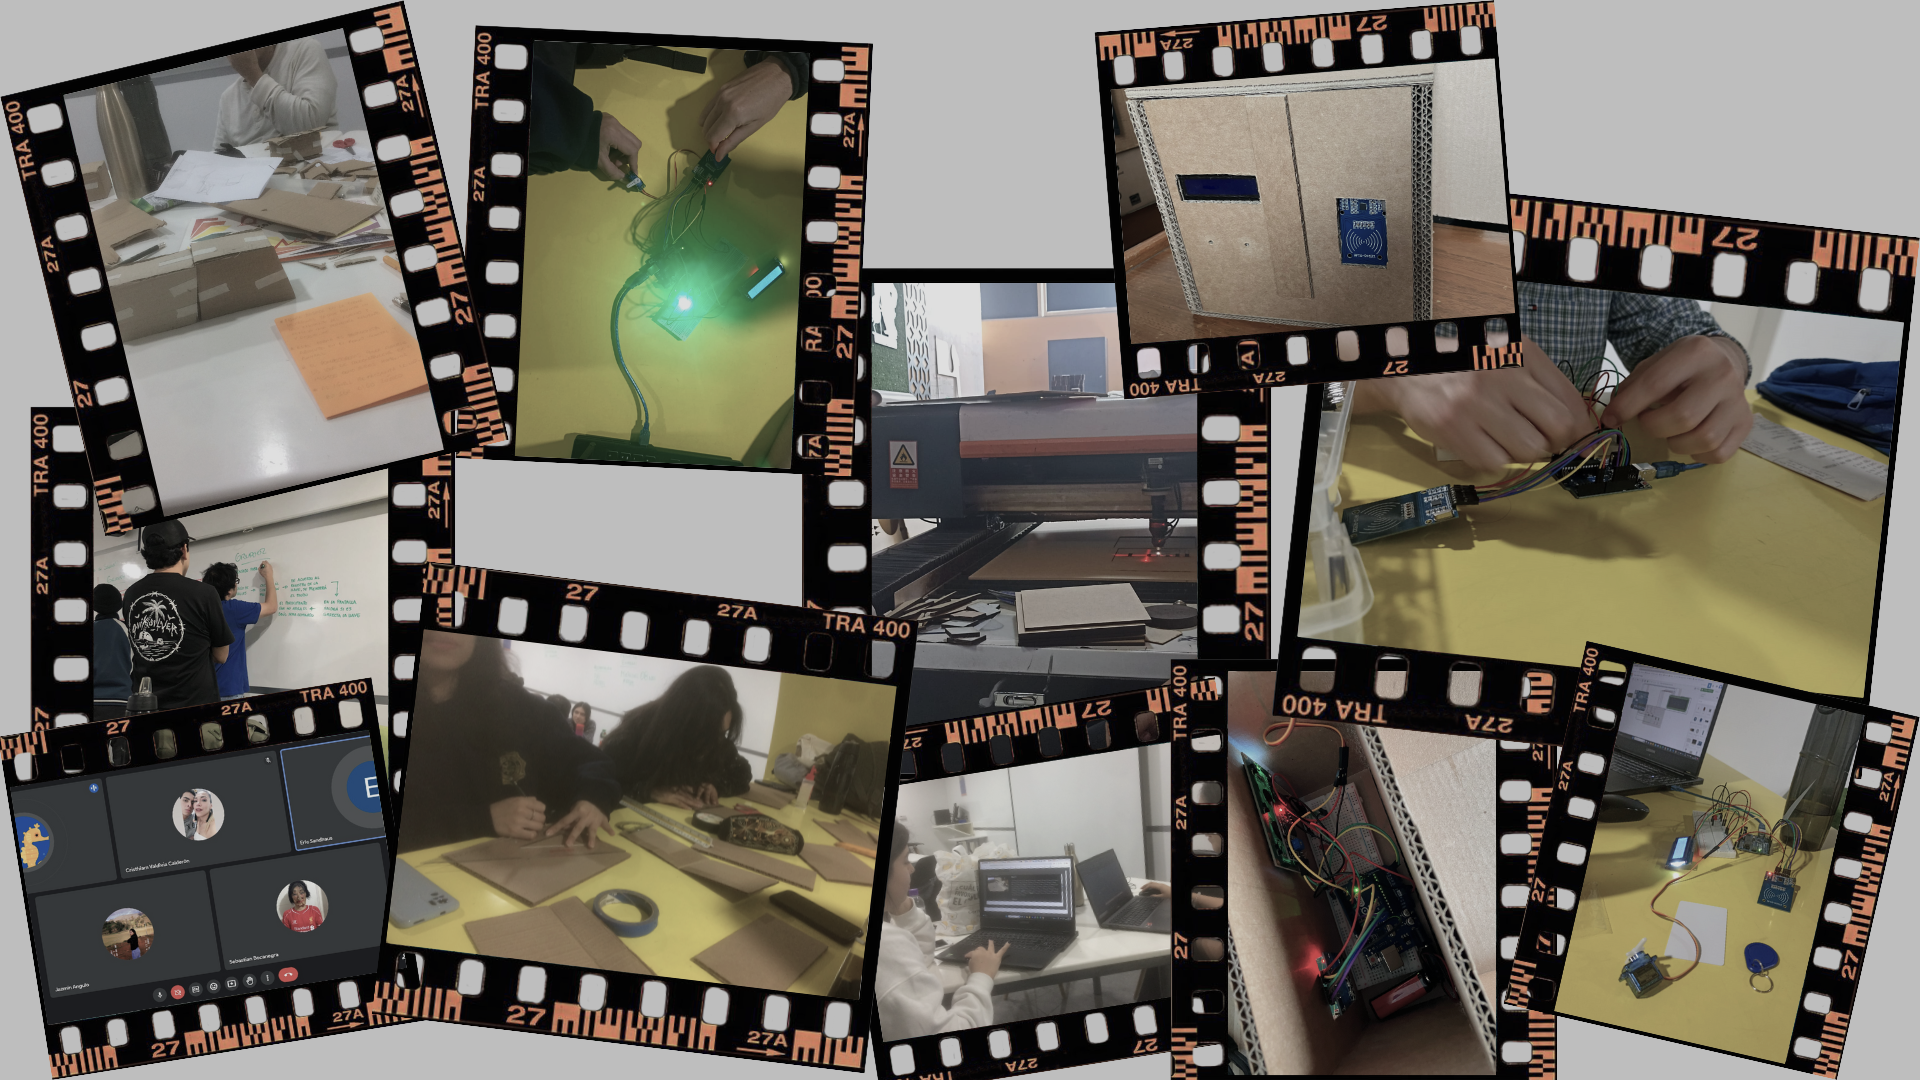
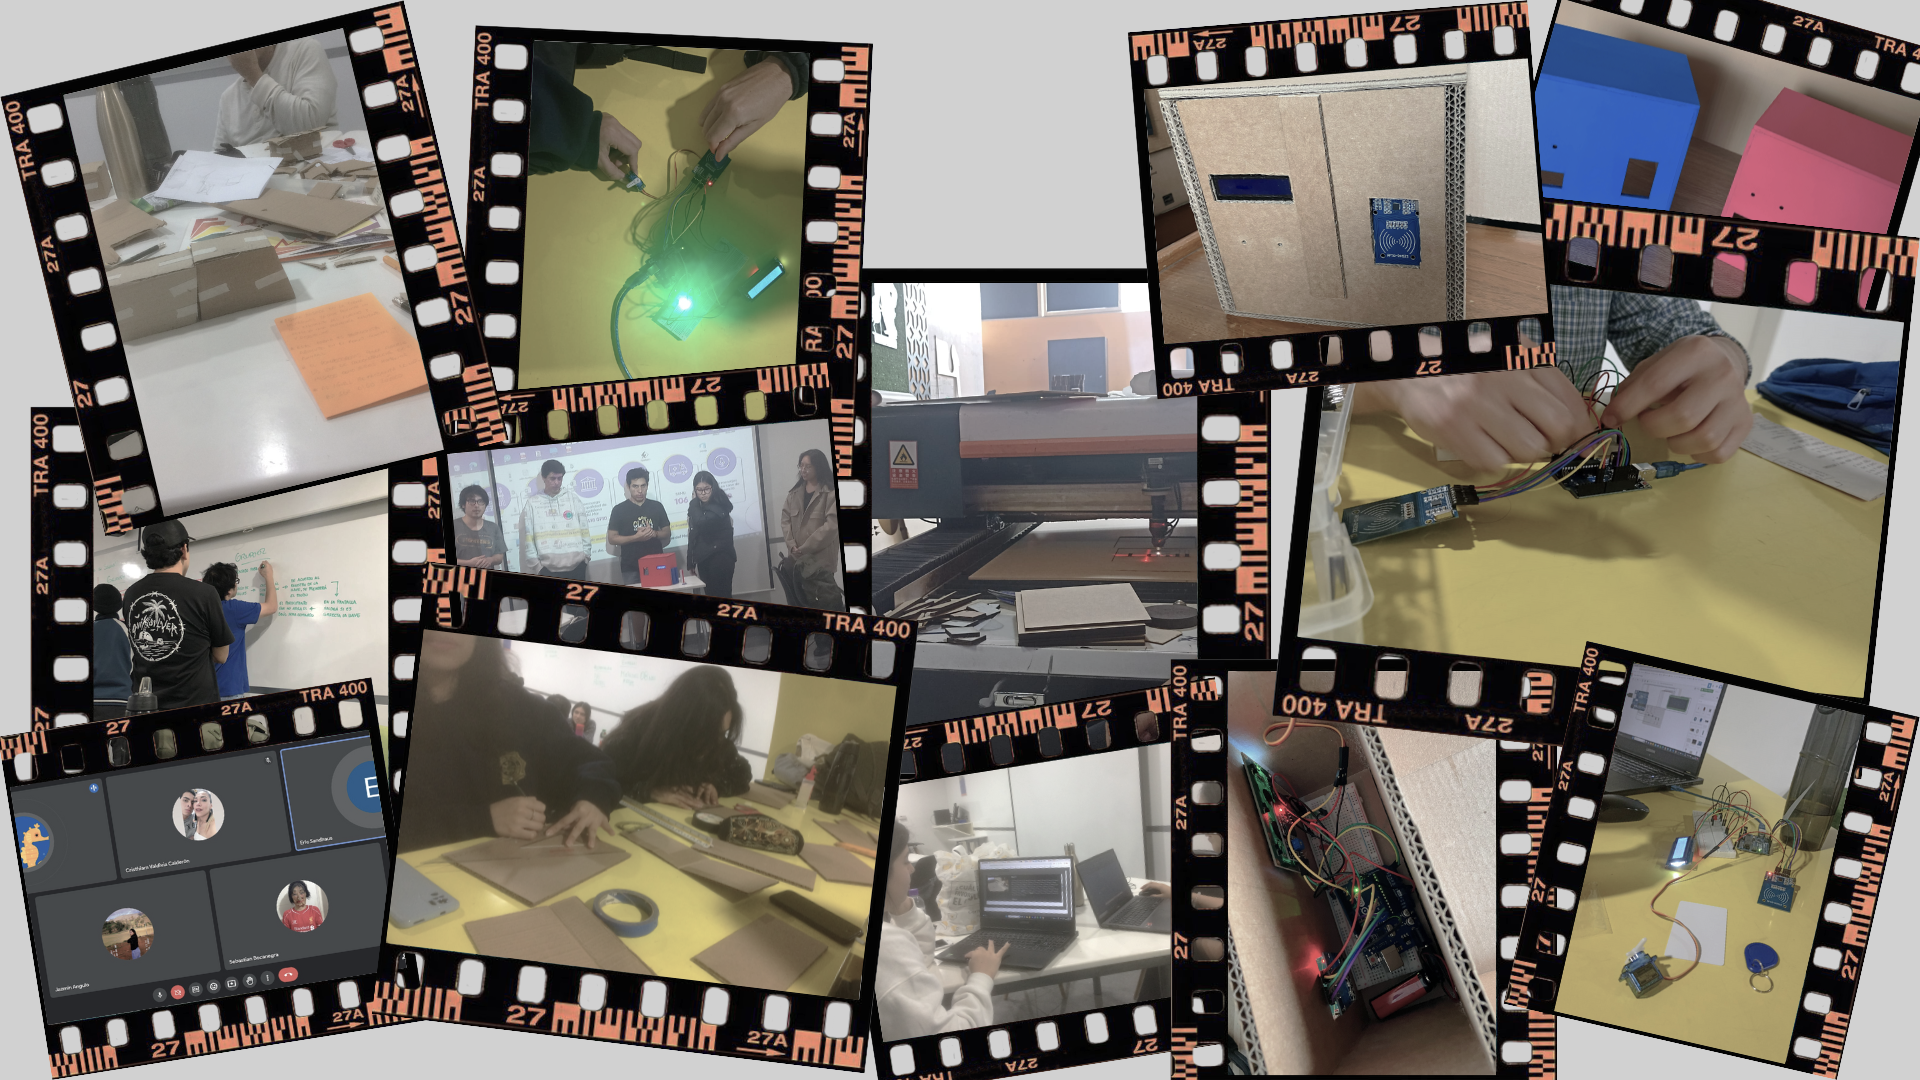
Version32

diff --git a/bitacora.html b/bitacora.html
@@ -351,6 +351,26 @@
 						<li><a href="galería3.html" class="button">Galería 3</a></li>
 					</ul>
 				</div>
+				<a href="#fourteen" class="goto-next scrolly">Next</a>
+			</section>
+
+			<!-- Fourteen -->
+			<section id="twelve" class="spotlight style2 right">
+				<span class="image fit main"><img src="images/bitácora/35.png" alt="" /></span>
+				<div class="content">
+					<header>
+						<h2>1era presentación del prototipo</h2>
+						<p>23/noviembre/2023</p>
+					</header>
+					<p>Ya con nuestro prototipo casi terminado, fuimos el primer equipo en exponer sobre nuestro avance del proyecto donde se 
+					explicó el objetivo, funcionamiento, público objetivo y significado del nombre que representa este diseño. Se hizo la demostración 
+					del funcionamiento eléctrico sin el micro servomotor debido a que todavía no se encontraba instalado el compartimento para alojar
+					a este. Aparte explicamos el funcionamiento de los conectores que se iban a instalar en las paredes de cada baúl, contando cada uno 
+					con dos conectores machos y dos hembras para que se puedan acoplar fácil y de esa manera almacenar de forma idónea.</p>
+					<!-- <ul class="actions">
+						<li><a href="galería2.html" class="button">Galería</a></li>
+					</ul> --> 
+				</div>
 				<a href="#banner" class="goto-next scrolly">Next</a>
 			</section>
 
